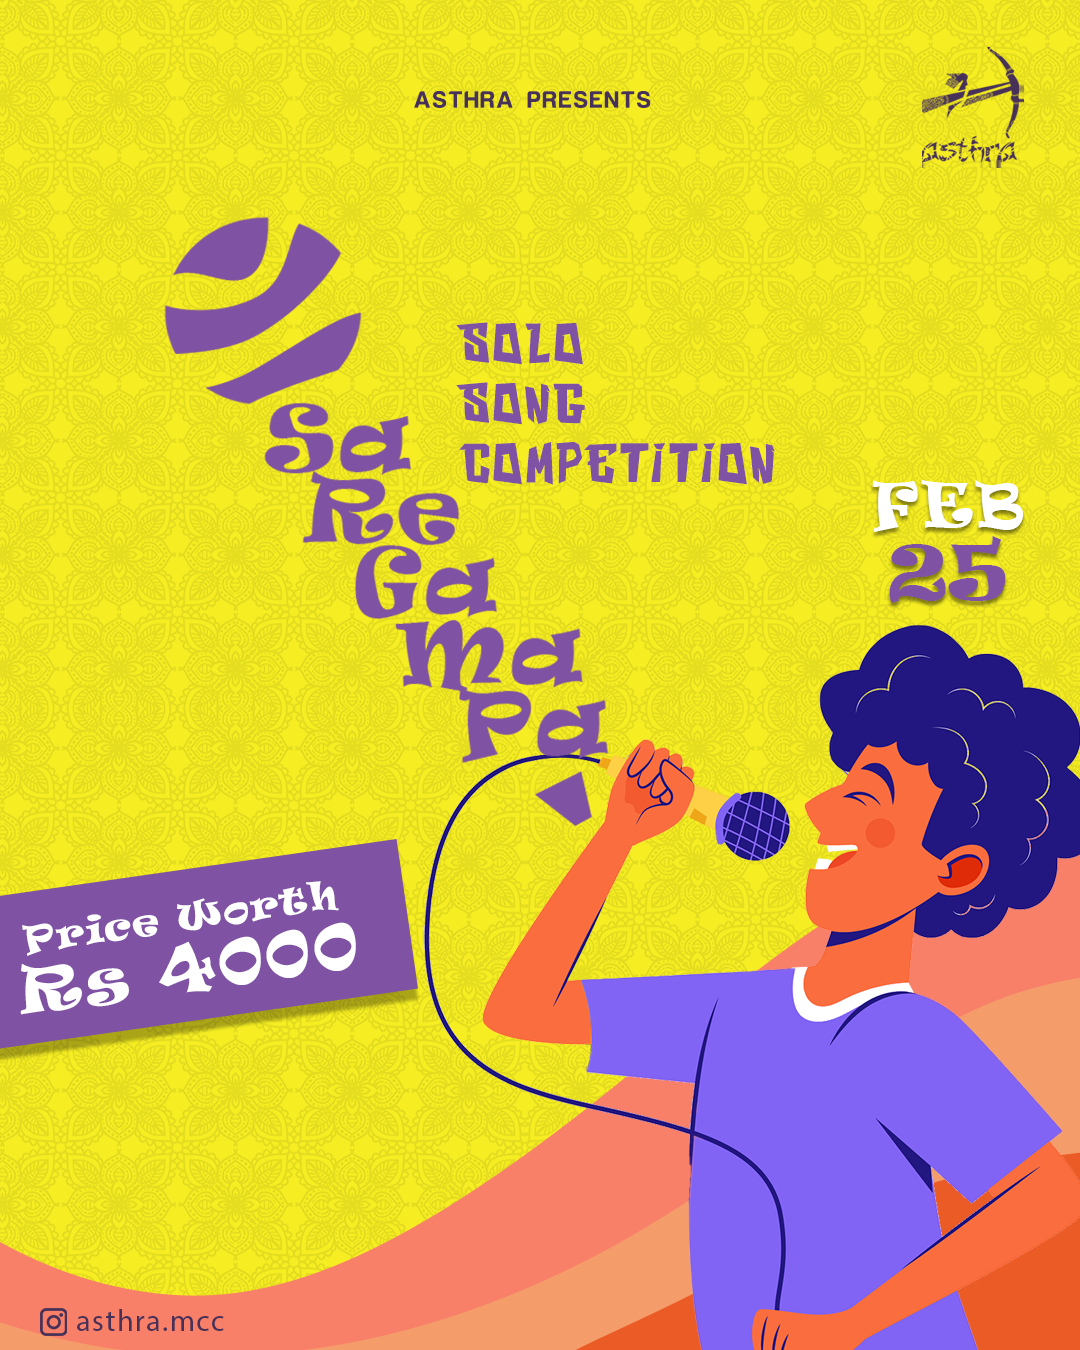
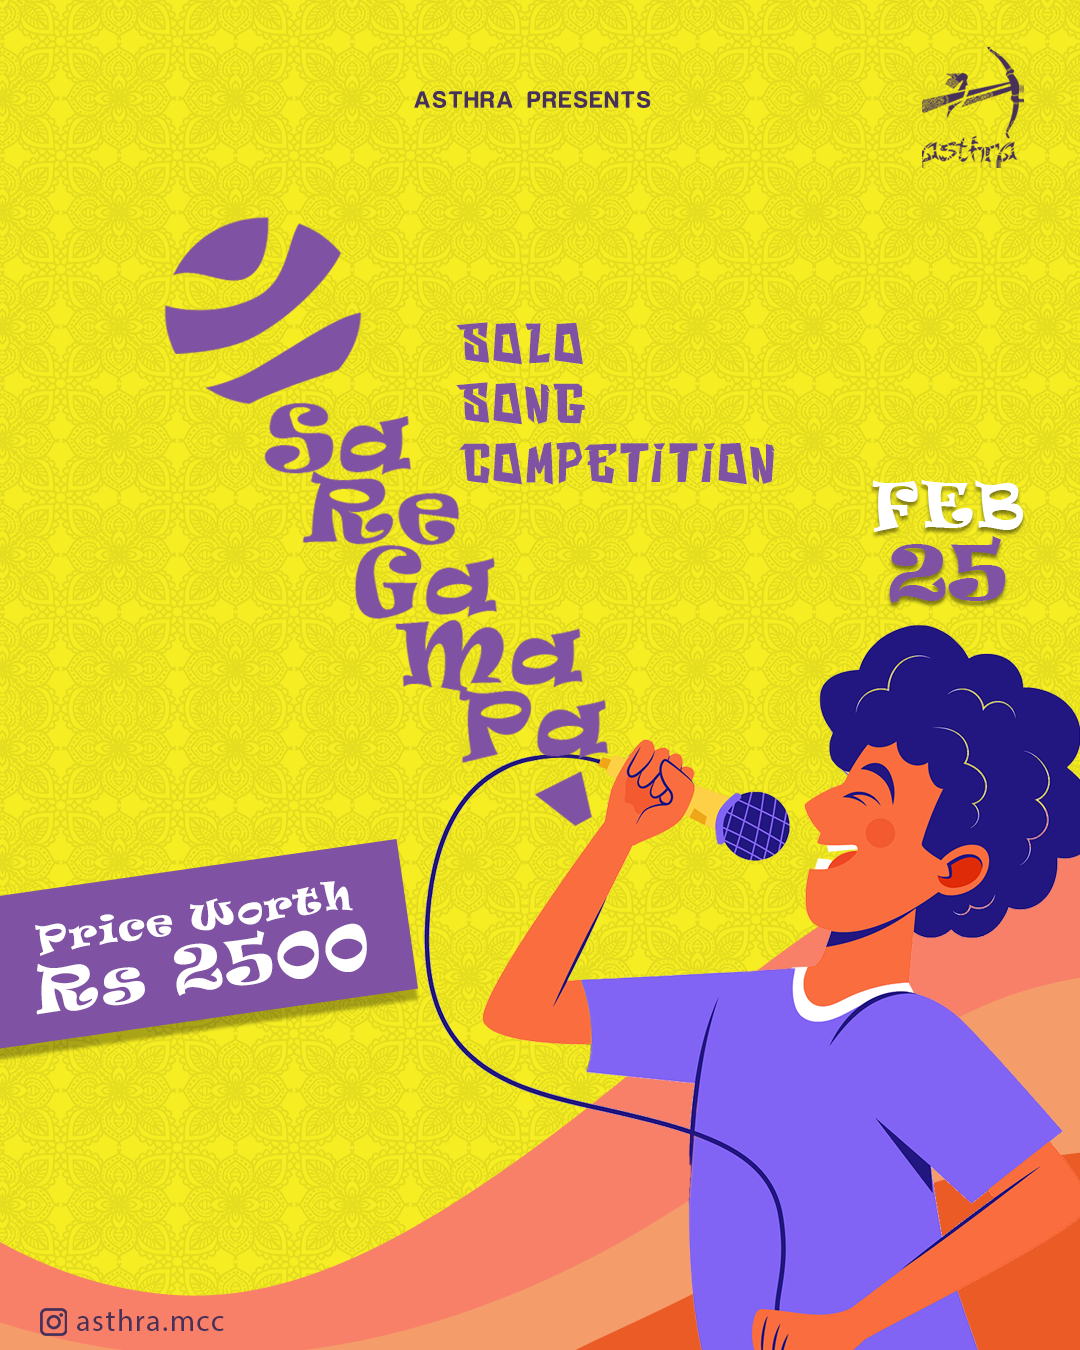
unhide cadence and saregamapa

Changed region(s): [[0.0, 0.6533, 0.3361, 0.7467]]

diff --git a/src/data/eventData.js b/src/data/eventData.js
@@ -623,7 +623,6 @@ export const events = [
     },
     registrationLink: 'https://docs.google.com/forms/d/e/1FAIpQLSeZL49tRNejdY8ZZieJObuHcGKrL8VHOULJB9fT6lQmFGDZOQ/viewform?usp=dialog'
   },
-  /*
   {
     id: 'cadence',
     name: 'Cadence',
@@ -635,7 +634,7 @@ export const events = [
     },
     prizes: {
       type: 'pool',
-      amount: 4000
+      amount: 3000
     },
     content: {
       'Description': 'Do you have the music in you? 🎼 Musaliar College\'s Asthra fest challenges you to unleash your inner musician! Cadence, the musical instrument competition, is your chance to demonstrate your virtuosity. Prepare to transform notes into magic, using your instrument as your voice and creativity as your guide. Ready to share your melody? ',
@@ -651,7 +650,6 @@ export const events = [
     },
     registrationLink: 'https://docs.google.com/forms/d/e/1FAIpQLSctgrsP3z_kpp5L8nZrrAF1-SCtVtw2BrTuB5QkWhTSlUxMlw/viewform?usp=dialog'
   },
-  */
   {
     id: 'naach_naach',
     name: 'Naach Naach',
@@ -680,7 +678,6 @@ export const events = [
     },
     registrationLink: 'https://docs.google.com/forms/d/e/1FAIpQLScELg4lH0wAwfjXvrgmkvt6lhWNwgyEX709LX9JTTCNo5pAyg/viewform?usp=dialog'
   },
-  /*
   {
     id: 'saregamapa',
     name: 'SAREGAMAPA',
@@ -692,7 +689,7 @@ export const events = [
     },
     prizes: {
       type: 'pool',
-      amount: 4000
+      amount: 2500
     },
     content: {
       'Description': 'Do you have the voice of a star? 🌟 Musaliar College\'s Asthra fest challenges you to showcase your vocal prowess in the Saregamapa solo singing competition!  Test your range, control, and stage presence, and prove your mastery of melody. Ready to let your voice be heard?',
@@ -708,5 +705,4 @@ export const events = [
     },
     registrationLink: 'https://docs.google.com/forms/d/e/1FAIpQLScELg4lH0wAwfjXvrgmkvt6lhWNwgyEX709LX9JTTCNo5pAyg/viewform?usp=dialog'
   },
-  */
 ];
